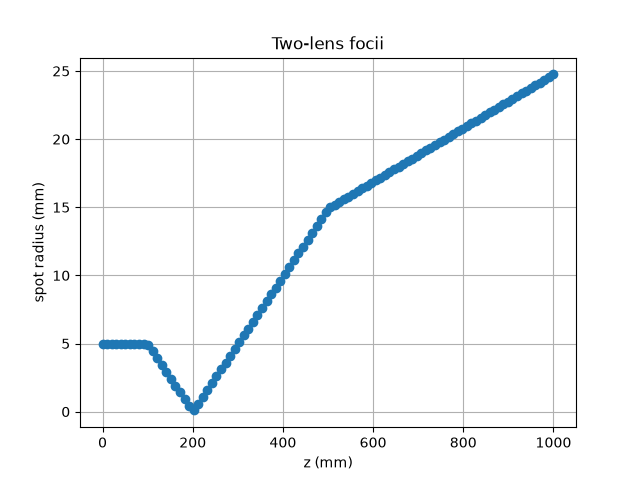
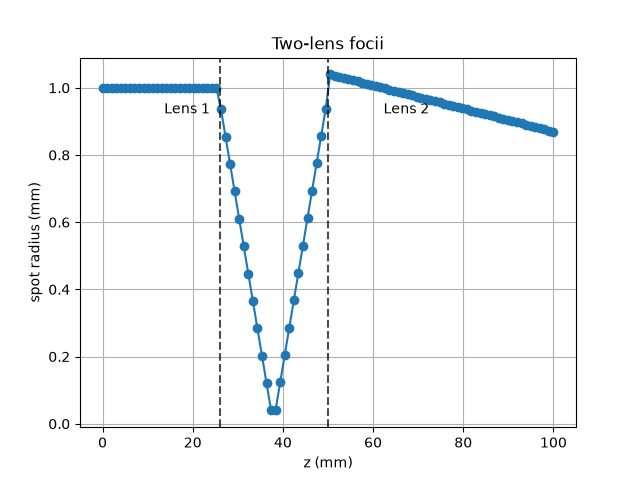
Change two-lens demo and add multi-wavelength source. NOTE: Possible restructuring in the future, the spaghetti code had already appeared.

diff --git a/models/sources.py b/models/sources.py
@@ -57,8 +57,7 @@ class LightSource:
 class ParaxialSource(LightSource):
     profile = "flat"
 
-    def __init__(self, wavelength, y=(0.0, 0.0), u=(0.0, 0.0), w=0.0,
-                 divergence=0.0, power=1.0, n=1.0, options={}):
+    def __init__(self, wavelength, y=(0.0, 0.0), u=(0.0, 0.0), w=0.0, divergence=0.0, power=1.0, n=1.0, options={}):
         super().__init__(wavelength, power, n)
         # one row per transverse axis: [y, n*u]
         self.state = np.array([[y[0], n * u[0]], [y[1], n * u[1]]], dtype=float)
@@ -94,3 +93,72 @@ class ParaxialSource(LightSource):
     @property
     def w(self):
         return abs(self.marginal[0])
+
+
+
+# okay essentially extends all of the properties of a paraxial source to
+# a keyed dictionary where an element is a wavelength
+class ParaxialMultiwavelengthSource(LightSource):
+    def __init__(self, wavelengths=None, powers=None, y=(0.0, 0.0), u=(0.0, 0.0),
+                 w=0.0, divergence=0.0, n=1.0, options=None):
+        wavelengths = [540e-9] if wavelengths is None else list(wavelengths)
+        powers = [1.0] * len(wavelengths) if powers is None else list(powers)
+        if len(powers) != len(wavelengths):
+            raise ValueError("wavelengths and powers must have the same length")
+        if len(set(wavelengths)) != len(wavelengths):
+            raise ValueError("duplicate wavelengths")
+        if options is None:
+            options = {"rotation": CoordinateVector(0, 0, 0)}
+
+        super().__init__(tuple(wavelengths), sum(powers), n, options)
+
+        self.children = {
+            wv: ParaxialSource(wavelength=wv, y=y, u=u, w=w, divergence=divergence,
+                               power=p, n=n, options=options)
+            for wv, p in zip(wavelengths, powers)
+        }
+
+    def apply(self, M, n_out=None):
+        for wv, child in self.children.items():
+            M_wv = M[wv] if isinstance(M, dict) else M
+            n_wv = n_out[wv] if isinstance(n_out, dict) else n_out
+            child.apply(M_wv, n_wv)
+        if n_out is not None and not isinstance(n_out, dict):
+            self.n = n_out
+        return self
+
+    def transform_transverse(self, basis):
+        for child in self.children.values():
+            child.transform_transverse(basis)
+        return self
+
+    def fork(self, fraction, basis=None):
+        branch = copy.deepcopy(self)
+        branch.id = uuid4()
+        branch.power = self.power * fraction
+        for src in branch.children.values():
+            src.id = uuid4()
+            src.power *= fraction
+        if basis is not None:
+            branch.transform_transverse(basis)
+        return branch
+
+    @property
+    def powers(self):
+        return {wv: c.power for wv, c in self.children.items()}
+
+    @property
+    def y(self):
+        return {wv: c.y for wv, c in self.children.items()}
+
+    @property
+    def nu(self):
+        return {wv: c.nu for wv, c in self.children.items()}
+
+    @property
+    def u(self):
+        return {wv: c.u for wv, c in self.children.items()}
+
+    @property
+    def w(self):
+        return {wv: c.w for wv, c in self.children.items()}

diff --git a/demos/two-lens.py b/demos/two-lens.py
@@ -13,12 +13,12 @@ def at(z):
 # 600 nm paraxial beam, 5 mm radius (u=0 -> parallel rays)
 src = ParaxialSource(
     wavelength=600e-9,
-    w=5e-3,
+    w=1e-3,
     divergence=0.0
 )
 
 # Create a stage with one arm.
-# The arm's optical axis is +z; its transverse frame is generated automatically.
+# The arm's optical axis is +z; its transverse frame is generated automatically
 stage = Stage()
 stage.add_arm(
     arm_id=0,
@@ -31,13 +31,13 @@ stage.add_arm(
 # Front vertex at z = 0.10 m
 stage.add_elem(
     0,
-    CircularLens(
-        position=CoordinateVector(3, 0.0, 0.0, 0.10),
-        thickness=5e-3,
-        radius=1e-2,
-        R1=0.1,
-        R2=-0.1,
-        index=1.5,
+    CircularLens( # symmetric biconvex lens (LB1406, idk if its same model as ours)
+        position=CoordinateVector(3, 0.0, 0.0, 50e-3 - 24e-3), # make them 2x focal length apart
+        thickness=2.3e-3,
+        radius=3e-3,
+        R1=12e-3,
+        R2=-12e-3,
+        index=1.5, # give or take, need to add a index curve later maybe
         rotation=UnOrderedRotation(3, 0.0, 0.0, 0.0)
     )
 )
@@ -45,18 +45,18 @@ stage.add_elem(
 stage.add_elem(
     0,
     CircularLens(
-        position=CoordinateVector(3, 0.0, 0.0, 0.50),
-        thickness=5e-3,
-        radius=1e-2,
-        R1=0.5,
-        R2=-0.5,
+        position=CoordinateVector(3, 0.0, 0.0, 50e-3),
+        thickness=2.3e-3,
+        radius=3e-3,
+        R1=12e-3,
+        R2=-12e-3,
         index=1.5,
         rotation=UnOrderedRotation(3, 0.0, 0.0, 0.0)
     )
 )
 
 # Spot-size readers sweeping through the focus
-zs = np.linspace(0.0, 1.0, 100)
+zs = np.linspace(0.0, 100e-3, 100)
 probes = [
     SpotDiagnostic(*at(z), name=f"z={z:.3f}")
     for z in zs
@@ -74,6 +74,29 @@ spot_radii = np.array([results[p][0]["w"] for p in probes])
 print(results)
 
 plt.plot(zs * 1e3, spot_radii * 1e3, "o-")
+
+
+# annotation for lens positions
+plt.axvline(x=50-24, color='black', linestyle='--', alpha=0.7) 
+plt.annotate(
+    text='Lens 1',
+    textcoords="offset points",
+    xy=(50-24, 0.8),
+    xytext=(-40, 30),
+    fontsize=10,
+    color='black'
+)
+plt.axvline(x=50, color='black', linestyle='--', alpha=0.7) 
+plt.annotate(
+    text='Lens 2',
+    textcoords="offset points",
+    xy=(50, 0.8),
+    xytext=(40, 30),
+    fontsize=10,
+    color='black'
+)
+
+
 plt.xlabel("z (mm)")
 plt.ylabel("spot radius (mm)")
 plt.title("Two-lens focii")
